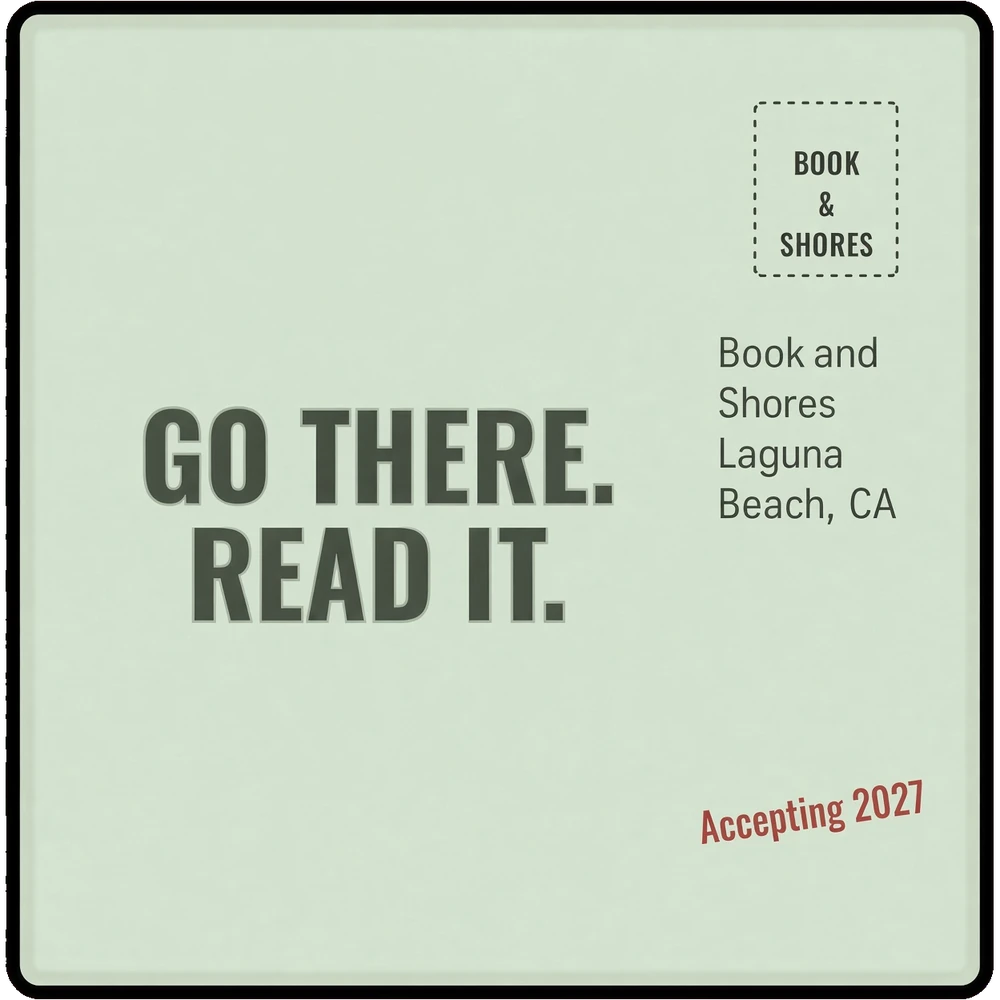
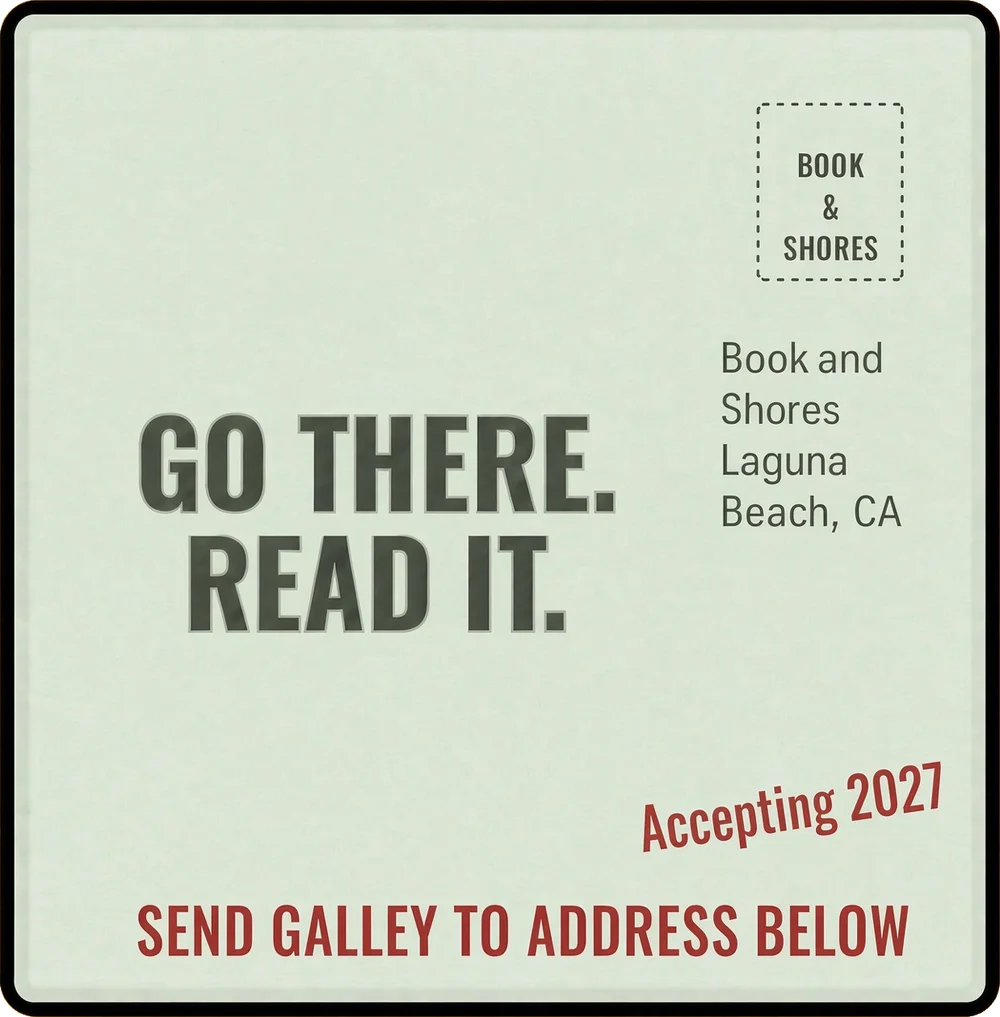
New Send Galley postcard; address only under image

diff --git a/index.html b/index.html
@@ -680,8 +680,8 @@
                 </div>
                 <!-- B&S: Send a Galley in WE LOVE YOU -->
                 <div class="radio-card" id="penpal">
-                    <img src="send-a-galley.webp" alt="Mint Book &amp; Shores postcard in a black rounded frame, reading GO THERE. READ IT., with a Book &amp; Shores stamp and Accepting 2027" style="max-width: 220px; background: transparent; display: block; margin: 0 auto;">
-                    <p><strong>Send Galley to:<br>Book &amp; Shores<br>1968 S. Coastal Hwy #4182<br>Laguna Beach, CA 92651</strong></p>
+                    <img src="send-a-galley.webp" alt="Mint Book &amp; Shores postcard in a black rounded frame, reading GO THERE. READ IT., with a Book &amp; Shores stamp, Accepting 2027, and SEND GALLEY TO ADDRESS BELOW" style="max-width: 220px; background: transparent; display: block; margin: 0 auto;">
+                    <p><strong>Book &amp; Shores<br>1968 S. Coastal Hwy #4182<br>Laguna Beach, CA 92651</strong></p>
                 </div>
             </div>
         </section>
